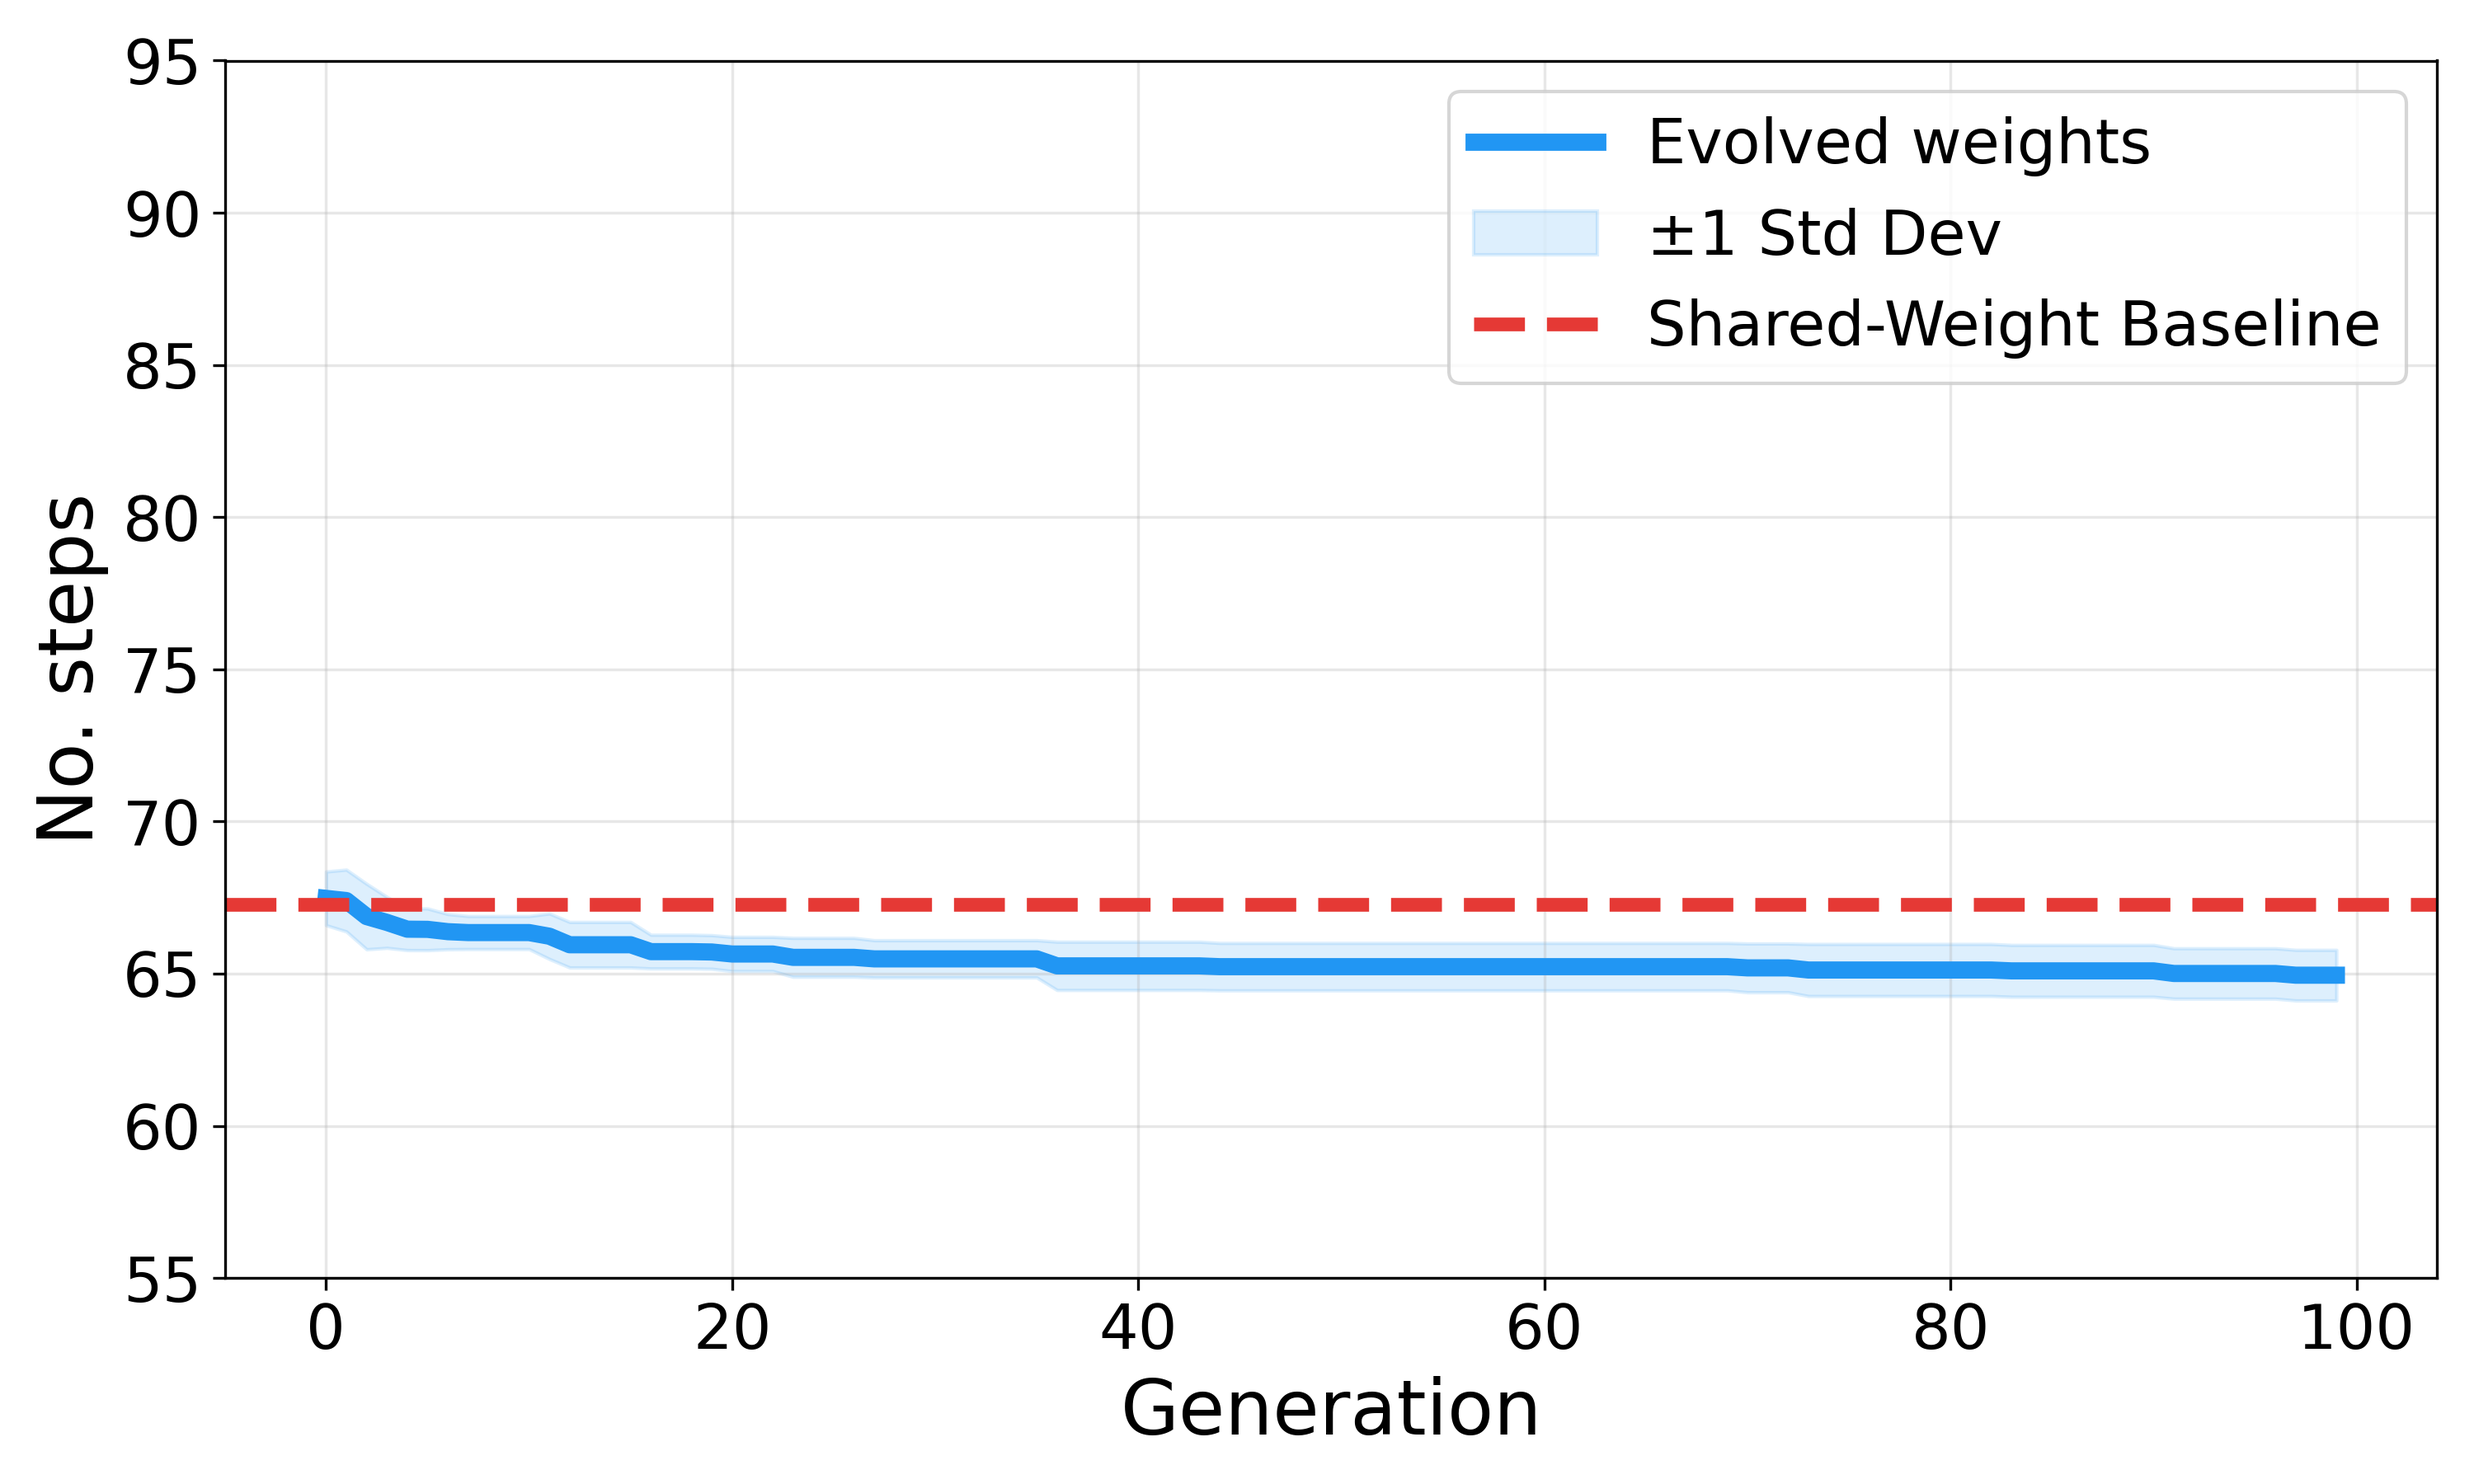
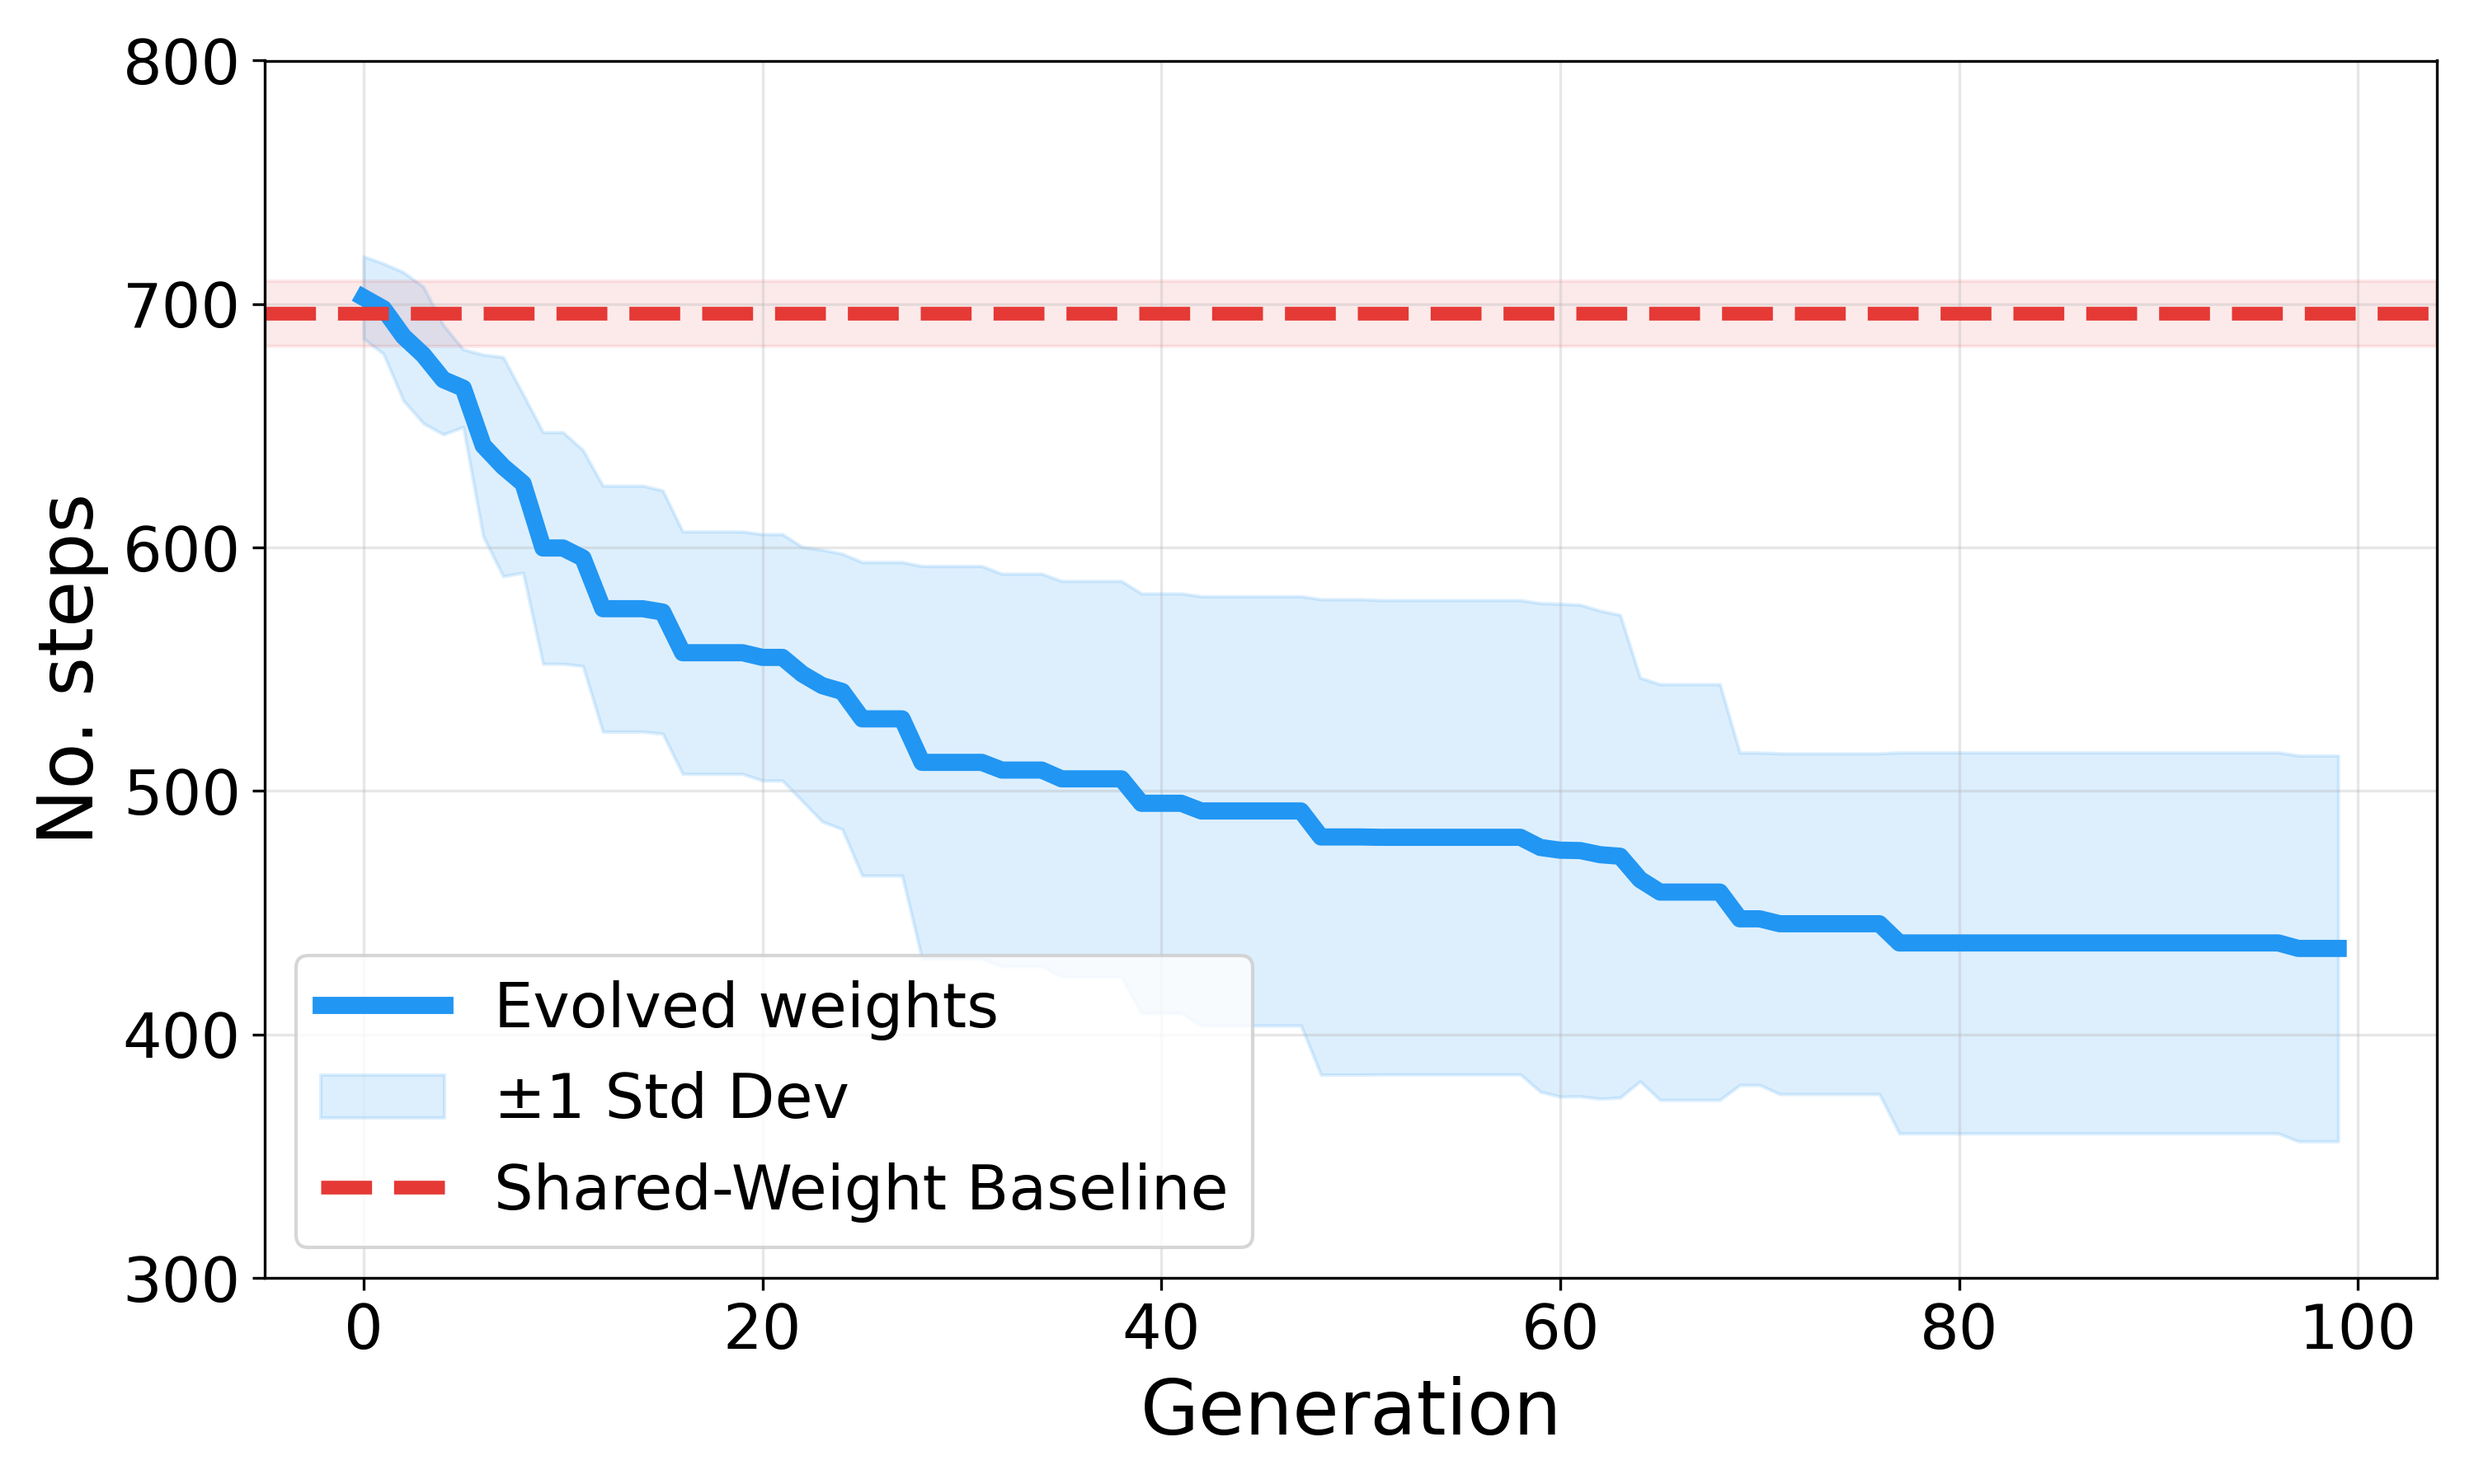
Update aggregated plots and save final weights of all runs
- plot_multiple_trials.py: baseline line is the mean of the five runs with a
  ±1 std band; Lunar Lander y-axis 300-800 and legend moved off the baseline
- print_networks.py: draw the Lunar Lander network from lula_256_480
- Add the final ES weights of the 15 runs (plots/weights/)
- Ignore CLAUDE.local.md

diff --git a/plot_multiple_trials.py b/plot_multiple_trials.py
@@ -19,7 +19,9 @@ def plot_results(env_name, num_runs, csv_dir="plots/csv", agg_plot_dir="plots/ag
     all_runs_best_overall = []
     
     generations = None
-    best_baseline_steps = None
+    # The best shared weight is chosen separately in each run, so the baseline
+    # differs between runs: collect one value per run and plot their mean ± std.
+    baseline_steps_per_run = []
     
     # 1. Parse the output CSVs from each run
     for i in range(num_runs):
@@ -39,11 +41,13 @@ def plot_results(env_name, num_runs, csv_dir="plots/csv", agg_plot_dir="plots/ag
         with open(training_csv, 'r') as f:
             reader = csv.reader(f)
             header = next(reader)
+            run_baseline = None
             for row in reader:
                 gen_list.append(int(row[0]))
                 eval_steps_list.append(float(row[1]))
-                if best_baseline_steps is None:
-                    best_baseline_steps = float(row[2])
+                if run_baseline is None:
+                    run_baseline = float(row[2])
+            baseline_steps_per_run.append(run_baseline)
                     
         # Read best overall steps
         best_steps_list = []
@@ -74,6 +78,16 @@ def plot_results(env_name, num_runs, csv_dir="plots/csv", agg_plot_dir="plots/ag
     mean_best_overall = np.mean(all_runs_best_overall, axis=0)
     std_best_overall = np.std(all_runs_best_overall, axis=0)
 
+    mean_baseline = np.mean(baseline_steps_per_run)
+    std_baseline = np.std(baseline_steps_per_run)
+    print(f"Shared-weight baseline per run: {[round(b, 1) for b in baseline_steps_per_run]} "
+          f"-> mean {mean_baseline:.1f} ± {std_baseline:.1f}")
+
+    # Fixed y-axis range per environment, so the paper panels are comparable
+    y_limits = {'smc_continuous': (100, 140), 'smc_discrete': (115, 155), 'lunar_lander': (300, 800)}
+    # In Lunar Lander the baseline (~700) sits near the top, where the legend would cover it
+    legend_loc = 'lower left' if env_name == 'lunar_lander' else 'upper right'
+
     # Make output directory for aggregated plots
     os.makedirs(agg_plot_dir, exist_ok=True)
 
@@ -83,20 +97,16 @@ def plot_results(env_name, num_runs, csv_dir="plots/csv", agg_plot_dir="plots/ag
     ax.fill_between(generations, mean_training - std_training, mean_training + std_training, 
                     color='#2196F3', alpha=0.15, label='±1 Std Dev')
     
-    if best_baseline_steps is not None:
-        ax.axhline(y=best_baseline_steps, linestyle='--', linewidth=4.0, color='#E53935', label='Shared-Weight Baseline')
+    ax.axhline(y=mean_baseline, linestyle='--', linewidth=4.0, color='#E53935', label='Shared-Weight Baseline')
+    ax.axhspan(mean_baseline - std_baseline, mean_baseline + std_baseline, color='#E53935', alpha=0.10)
         
     ax.set_xlabel('Generation', fontsize=22)
     ax.set_ylabel('Average Steps', fontsize=22)
     ax.tick_params(axis='both', which='major', labelsize=18)
-    ax.legend(loc='upper right', fontsize=18)
+    ax.legend(loc=legend_loc, fontsize=18)
     ax.grid(True, alpha=0.3)
-    if env_name == 'smc_continuous':
-        ax.set_ylim(100, 140)
-    elif env_name == 'smc_discrete':
-        ax.set_ylim(115, 155)
-    elif env_name == 'lunar_lander':
-        ax.set_ylim(55, 95)
+    if env_name in y_limits:
+        ax.set_ylim(*y_limits[env_name])
     fig.tight_layout()
     
     png_path = os.path.join(agg_plot_dir, f"{env_name}_multi_run_eval.png")
@@ -112,20 +122,16 @@ def plot_results(env_name, num_runs, csv_dir="plots/csv", agg_plot_dir="plots/ag
     ax.fill_between(generations, mean_best_overall - std_best_overall, mean_best_overall + std_best_overall, 
                     color='#2196F3', alpha=0.15, label='±1 Std Dev')
     
-    if best_baseline_steps is not None:
-        ax.axhline(y=best_baseline_steps, linestyle='--', linewidth=4.0, color='#E53935', label='Shared-Weight Baseline')
+    ax.axhline(y=mean_baseline, linestyle='--', linewidth=4.0, color='#E53935', label='Shared-Weight Baseline')
+    ax.axhspan(mean_baseline - std_baseline, mean_baseline + std_baseline, color='#E53935', alpha=0.10)
         
     ax.set_xlabel('Generation', fontsize=22)
     ax.set_ylabel('No. steps', fontsize=22)
     ax.tick_params(axis='both', which='major', labelsize=18)
-    ax.legend(loc='upper right', fontsize=18)
+    ax.legend(loc=legend_loc, fontsize=18)
     ax.grid(True, alpha=0.3)
-    if env_name == 'smc_continuous':
-        ax.set_ylim(100, 140)
-    elif env_name == 'smc_discrete':
-        ax.set_ylim(115, 155)
-    elif env_name == 'lunar_lander':
-        ax.set_ylim(55, 95)
+    if env_name in y_limits:
+        ax.set_ylim(*y_limits[env_name])
     fig.tight_layout()
     
     best_png_path = os.path.join(agg_plot_dir, f"{env_name}_multi_run_best_overall.png")

diff --git a/print_networks.py b/print_networks.py
@@ -18,7 +18,8 @@ ENV_CONFIGS = {
         'labels': ['position', 'velocity', 'acceleration']
     },
     'lunar_lander':   {
-        'file': 'champions/lula_best.out', 
+        # champions/lula_best.out is the weaker run (lula_1024_128) and never lands
+        'file': 'log/lula/lula_256_480_best.out',
         'n_in': 8, 'n_out': 4,
         'labels': ['x', 'y', 'dx', 'dy', 'angle', 'angular\nvel', 'leg1', 'leg2',
                    'do\nnothing', 'fire\nleft', 'fire\nmain', 'fire\nright']
